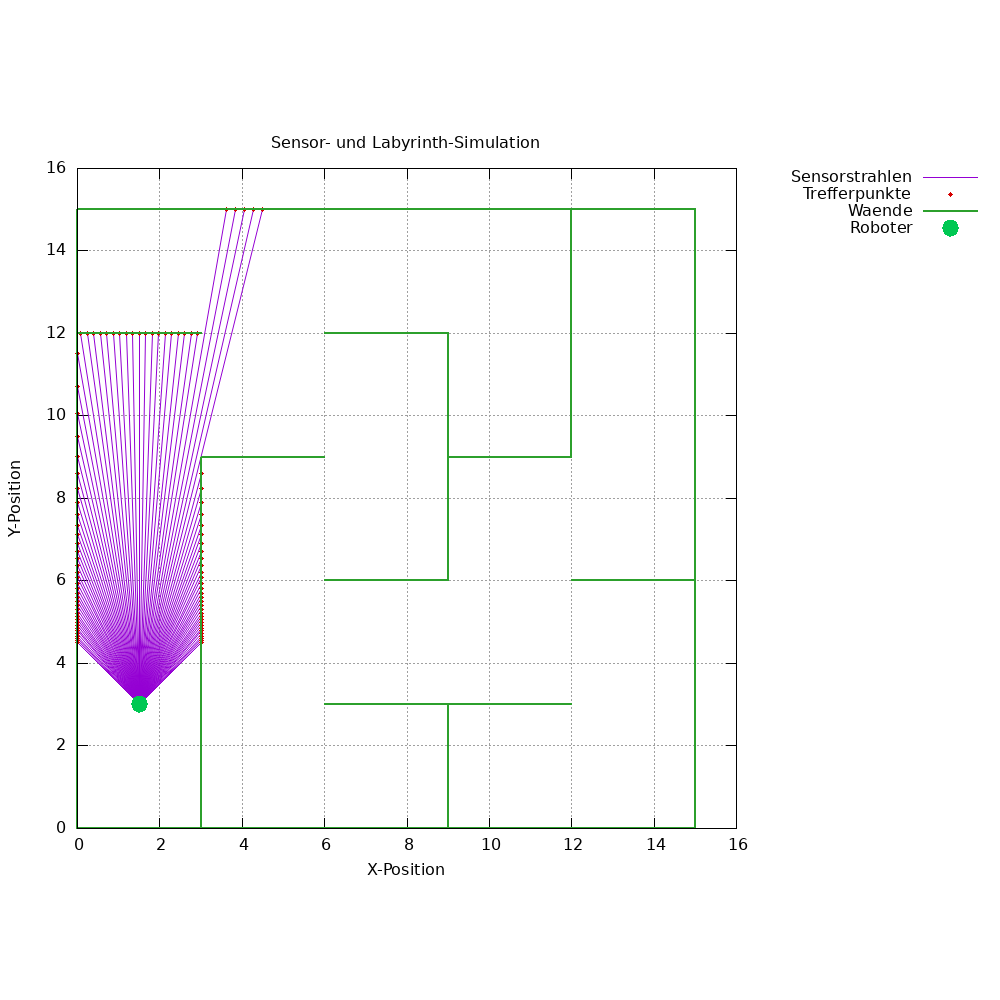
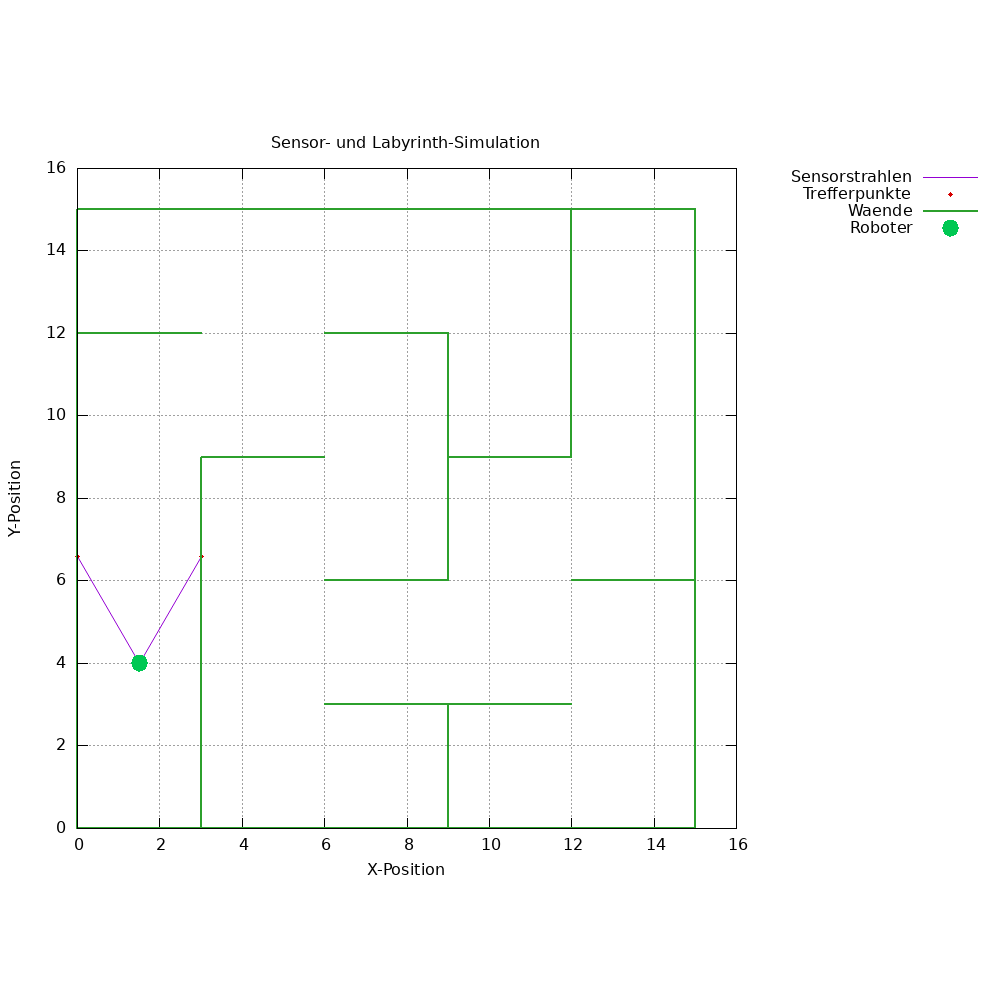
Neue Datei hinzugefügt

Changed region(s): [[0.062, 0.217, 0.248, 0.713]]

diff --git a/carl_main_backup.c b/carl_main_backup.c
@@ -1,0 +1,206 @@
+// Einbinden der Mathematik-Bibliothek (fuer cosf, sinf, fabsf, INFINITY, isinf)
+#include <math.h>
+// Einbinden der Standard-Eingabe/Ausgabe-Bibliothek (fuer printf, fprintf, fopen, fclose, fscanf)
+#include <stdio.h>
+
+// Definition globaler Konstanten
+#define MAX_WALLS 50        // Maximale Anzahl an Waenden, die im Speicher abgelegt werden koennen
+#define EPSILON     1e-6f   // Sehr kleine Zahl (0.000001), um Divisionen durch 0 bei parallelen Linien zu verhindern
+#define PI          3.14159265f // Kreiszahl Pi zur Umrechnung von Grad in Bogenmass (Radian)
+
+// Struktur-Definition "Wall": Stellt ein Wandsegment von Punkt A(x1, y1) nach Punkt B(x2, y2) dar
+struct Wall {
+    float x1; // X-Koordinate des Anfangspunkts (Punkt A)
+    float y1; // Y-Koordinate des Anfangspunkts (Punkt A)
+    float x2; // X-Koordinate des Endpunkts (Punkt B)
+    float y2; // Y-Koordinate des Endpunkts (Punkt B)
+};
+
+// Globales Array, in dem bis zu 50 Waende gespeichert werden koennen
+struct Wall walls[MAX_WALLS];
+// Zaehler fuer die aktuell im Speicher geladenen Waende
+int num_walls = 0;
+
+// Zustand des Roboters im Raum (Startposition und Blickrichtung)
+float robot_x   = 1.5f;  // X-Position des Roboters (z. B. 5.0 = 500mm)
+float robot_y   = 4.0f;  // Y-Position des Roboters (z. B. 5.0 = 500mm)
+float robot_phi = 1.57f; // Blickwinkel des Roboters in Radian (1.57 rad ca. 90 Grad = nach oben)
+
+/**
+ * Berechnet die Entfernung von einem Sensorpunkt (px, py) in Blickrichtung (phi) zu einer konkreten Wand.
+ */
+float distance_to_wall(float px, float py, float phi,
+                       const struct Wall *wall)
+{
+    // Berechnet den Richtungsvektor des Sensorstrahls (Kosinus für X, Sinus für Y)
+    const float c  = cosf(phi); // X-Anteil der Blickrichtung
+    const float s  = sinf(phi); // Y-Anteil der Blickrichtung
+
+    // Richtungsvektor der Wand (Differenz zwischen Endpunkt B und Startpunkt A)
+    const float dx = wall->x2 - wall->x1;   // Wand-Laenge in X-Richtung
+    const float dy = wall->y2 - wall->y1;   // Wand-Laenge in Y-Richtung
+
+    // Vektor vom Sensorpunkt P zum Wandstartpunkt A
+    const float rx = wall->x1 - px;         // Abstand Sensor zu Wand-A in X
+    const float ry = wall->y1 - py;         // Abstand Sensor zu Wand-A in Y
+
+    // Berechnet die Determinante, um zu prüfen, ob Strahl und Wand parallel verlaufen
+    const float det = dx * s - dy * c;
+    
+    // Wenn die Determinante nahezu Null ist (kleiner als EPSILON), verlaufen Strahl und Wand parallel
+    if (fabsf(det) < EPSILON) {
+        return INFINITY; // Kein Schnittpunkt moeglich -> Rückgabe von Unendlich
+    }
+
+    // Berechnet den Schnittpunkt-Parameter mu (die Entfernung vom Sensor zum Trefferpunkt)
+    const float mu     = (dx * ry - dy * rx) / det;
+    // Berechnet den Parameter lambda (zeigt an, wo auf dem Wandsegment der Schnittpunkt liegt: 0.0 bis 1.0)
+    const float lambda = (c * ry - s * rx) / det;
+
+    // Ueberprueft, ob ein gueltiger Treffer vorliegt:
+    // 1. mu > 0.0f: Die Wand liegt VOR dem Sensor (nicht im Ruecken des Roboters)
+    // 2. lambda zwischen 0.0 und 1.0: Der Treffer liegt wirklich AUF dem Wandsegment
+    if (mu <= 0.0f || lambda < 0.0f || lambda > 1.0f) {
+        return INFINITY; // Wand wird verfehlt -> Rückgabe von Unendlich
+    }
+
+    // Gibt die berechnete Distanz zur Wand zurück
+    return mu;
+}
+
+/**
+ * Simuliert den Sensor: Testet alle geladenen Wände und gibt die Distanz zur nächsten Wand zurück.
+ */
+float perception(float px, float py, float phi)
+{
+    // Setzt die aktuell kleinste Distanz vorab auf Unendlich
+    float min_distance = INFINITY;
+
+    // Schleife geht nacheinander alle geladenen Waende durch
+    for (int i = 0; i < num_walls; i++) {
+        // Berechnet die Distanz zur aktuellen Wand i (Uebergabe der Speicheradresse mit &)
+        const float d = distance_to_wall(px, py, phi, &walls[i]);
+
+        // Wenn die gemessene Distanz kleiner ist als das bisherige Minimum
+        if (d < min_distance) {
+            min_distance = d; // Speichere die neue kleinste Distanz
+        }
+    }
+
+    // Gibt die kleinste gefundene Wand-Distanz zurueck (oder INFINITY, wenn keine Wand getroffen wurde)
+    return min_distance;
+}
+
+/**
+ * Liest die Wandkoordinaten aus einer Textdatei ein (Format pro Zeile: x1 y1 x2 y2).
+ */
+int read_walls(const char *filename)
+{
+    // Oeffnet die Datei im Lese-Modus ("r" steht fuer read)
+    FILE *f = fopen(filename, "r");
+
+    // Prüft, ob beim Oeffnen der Datei ein Fehler aufgetreten ist (z. B. Datei existiert nicht)
+    if (f == NULL) {
+        // Gibt eine Fehlermeldung auf der Standard-Fehlerausgabe (stderr) aus
+        fprintf(stderr, "Error opening file %s\n", filename);
+        return -1; // bricht ab und gibt den Fehlercode -1 zurueck
+    }
+
+    // Setzt den Wandzaehler vor dem Einlesen auf 0 zurück
+    num_walls = 0;
+
+    // Liest zeilenweise 4 Fließkommazahlen (x1, y1, x2, y2) in das Array ein,
+    // solange die maximale Wandanzahl nicht erreicht ist und fscanf erfolgreich 4 Werte liest
+    while (num_walls < MAX_WALLS &&
+           fscanf(f, "%f %f %f %f",
+                  &walls[num_walls].x1, &walls[num_walls].y1,
+                  &walls[num_walls].x2, &walls[num_walls].y2) == 4) {
+        num_walls++; // Erhoeht den Zaehler um 1 fuer jede erfolgreich gelesene Wand
+    }
+
+    // Schließt die Datei sauber wieder
+    fclose(f);
+
+    // Gibt die Anzahl der erfolgreich eingelesenen Waende zurueck
+    return num_walls;
+}
+
+/**
+ * Tastet die Umgebung schrittweise in Grad ab und speichert die Trefferpunkte in einer Textdatei.
+ */
+static int save_scan(const char *filename)
+{
+    // Oeffnet/Erstellt die Datei im Schreib-Modus ("w" steht fuer write)
+    FILE *f = fopen(filename, "w");
+
+    // Prueft, ob die Datei erfolgreich zum Schreiben geoeffnet werden konnte
+    if (f == NULL) {
+        // Fehler auf der Konsole ausgeben
+        fprintf(stderr, "Error opening file %s\n", filename);
+        return -1; // Bricht ab mit Fehlercode -1
+    }
+
+    // Schleife von 0 bis 89 Grad (1-Grad-Schritte)
+    for (int degrees = 45; degrees <= 135; degrees++) {
+        // Umrechnung von Grad in Radian (Bogenmass)
+        const float phi = (float)degrees * PI / 180.0f;
+
+        // Gemessene Wand-Entfernung in der Richtung phi abfragen
+        const float d   = perception(robot_x, robot_y, phi);
+
+        // Prüft, ob der Strahl ins Leere trifft (d ist unendlich)
+        if (isinf(d)) {
+            continue;   // Überspringt den Rest der Schleife und macht mit dem nächsten Grad weiter
+        }
+
+        // Schreib-Befehl: Speichert Roboter-X, Roboter-Y sowie Treffer-X und Treffer-Y in der Datei
+        fprintf(f, "%.3f %.3f %.3f %.3f\n", robot_x, robot_y,
+                robot_x + d * cosf(phi), robot_y + d * sinf(phi));
+    }
+
+    // Schließt die Datei wieder
+    fclose(f);
+
+    // Gibt 0 fuer "Erfolgreich abgeschlossen" zurueck
+    return 0;
+}
+
+// Hauptfunktion: Hier startet die Ausfuehrung des C-Programms
+int main(void)
+{
+    // Array mit 4 Test-Winkeln in Radian (entspricht 0°, 90°, 180°, 270°)
+    static const float angles[] = {0.0f, 1.5708f, 3.1416f, 4.7124f};
+    
+    // Berechnet die Anzahl der Elementen im Array (Gesamtgroesse geteilt durch Groesse eines Elements)
+    const int num_angles = (int)(sizeof(angles) / sizeof(angles[0]));
+
+    // Versucht, die Waende aus "Labyrinth.txt" zu laden. Bei Fehler (< 0) wird abgebrochen.
+    if (read_walls("Labyrinth.txt") < 0) {
+        return 1; // Programm beenden mit Fehlercode 1
+    }
+    // Gibt die Anzahl der geladenen Wände im Terminal aus
+    printf("Walls loaded: %d\n", num_walls);
+
+    // Misst und druckt die Distanz in der aktuellen Blickrichtung des Roboters
+    printf("Robot (phi = %.2f rad) -> distance = %.3f\n",
+           robot_phi, perception(robot_x, robot_y, robot_phi));
+
+    // Schleife geht alle 4 Test-Winkel aus dem Array durch
+    for (int i = 0; i < num_angles; i++) {
+        // Misst die Distanz fuer den aktuellen Winkel i
+        const float d = perception(robot_x, robot_y, angles[i]);
+        // Druckt den Winkel und die gemessene Distanz in der Konsole aus
+        printf("phi = %.4f rad -> distance = %.3f\n", angles[i], d);
+    }
+
+    // Fuehrt den Scan durch und speichert das Ergebnis in "Sensor.txt". Bei Fehler wird abgebrochen.
+    if (save_scan("Sensor.txt") < 0) {
+        return 1; // Programm beenden mit Fehlercode 1
+    }
+    
+    // Gibt eine Bestätigungsmeldung aus
+    printf("Scan saved to Sensor.txt\n");
+
+    // Programm erfolgreich beenden (Rückgabewert 0 an das Betriebssystem)
+    return 0;
+}

diff --git a/carl_main.c b/carl_main.c
@@ -23,7 +23,7 @@ int num_walls = 0;
 
 // Zustand des Roboters im Raum (Startposition und Blickrichtung)
 float robot_x   = 1.5f;  // X-Position des Roboters (z. B. 5.0 = 500mm)
-float robot_y   = 3.0f;  // Y-Position des Roboters (z. B. 5.0 = 500mm)
+float robot_y   = 4.0f;  // Y-Position des Roboters (z. B. 5.0 = 500mm)
 float robot_phi = 1.57f; // Blickwinkel des Roboters in Radian (1.57 rad ca. 90 Grad = nach oben)
 
 /**
@@ -128,40 +128,41 @@ int read_walls(const char *filename)
 /**
  * Tastet die Umgebung schrittweise in Grad ab und speichert die Trefferpunkte in einer Textdatei.
  */
-static int save_scan(const char *filename)
-{
-    // Oeffnet/Erstellt die Datei im Schreib-Modus ("w" steht fuer write)
+static int save_scan(const char *filename) {
     FILE *f = fopen(filename, "w");
-
-    // Prueft, ob die Datei erfolgreich zum Schreiben geoeffnet werden konnte
     if (f == NULL) {
-        // Fehler auf der Konsole ausgeben
         fprintf(stderr, "Error opening file %s\n", filename);
-        return -1; // Bricht ab mit Fehlercode -1
+        return -1;
     }
 
-    // Schleife von 0 bis 89 Grad (1-Grad-Schritte)
-    for (int degrees = 45; degrees <= 135; degrees++) {
-        // Umrechnung von Grad in Radian (Bogenmass)
-        const float phi = (float)degrees * PI / 180.0f;
+    // --- Definition deiner ZWEI Sensoren ---
+    // Der Roboter guckt nach vorne (90 Grad = 1.57 rad). 
+    // Die Sensoren sind schräg nach außen montiert.
+    
+    // 1. Linker Sensor (z.B. +30 Grad nach links von der Mitte)
+    float winkel_links = 120.0f; 
+    const float phi_L = winkel_links * PI / 180.0f;
+    const float dist_L = perception(robot_x, robot_y, phi_L);
 
-        // Gemessene Wand-Entfernung in der Richtung phi abfragen
-        const float d   = perception(robot_x, robot_y, phi);
+    // 2. Rechter Sensor (z.B. -30 Grad nach rechts von der Mitte)
+    float winkel_rechts = 60.0f; 
+    const float phi_R = winkel_rechts * PI / 180.0f;
+    const float dist_R = perception(robot_x, robot_y, phi_R);
 
-        // Prüft, ob der Strahl ins Leere trifft (d ist unendlich)
-        if (isinf(d)) {
-            continue;   // Überspringt den Rest der Schleife und macht mit dem nächsten Grad weiter
-        }
-
-        // Schreib-Befehl: Speichert Roboter-X, Roboter-Y sowie Treffer-X und Treffer-Y in der Datei
+    // --- In Datei speichern (nur wenn Wand getroffen) ---
+    // Linker Strahl
+    if (!isinf(dist_L)) {
         fprintf(f, "%.3f %.3f %.3f %.3f\n", robot_x, robot_y,
-                robot_x + d * cosf(phi), robot_y + d * sinf(phi));
+                robot_x + dist_L * cosf(phi_L), robot_y + dist_L * sinf(phi_L));
+    }
+    
+    // Rechter Strahl
+    if (!isinf(dist_R)) {
+        fprintf(f, "%.3f %.3f %.3f %.3f\n", robot_x, robot_y,
+                robot_x + dist_R * cosf(phi_R), robot_y + dist_R * sinf(phi_R));
     }
 
-    // Schließt die Datei wieder
     fclose(f);
-
-    // Gibt 0 fuer "Erfolgreich abgeschlossen" zurueck
     return 0;
 }
 
